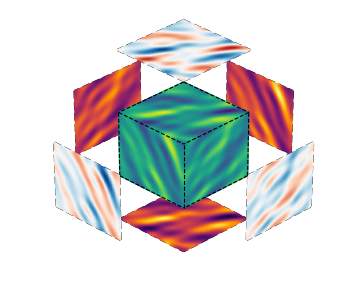
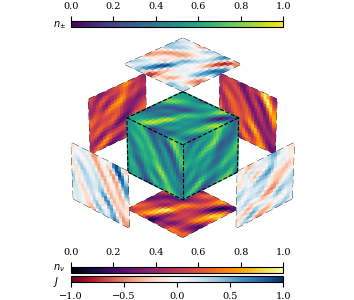
add colorbar sketches

diff --git a/box.py b/box.py
@@ -343,7 +343,7 @@ if __name__ == "__main__":
     axs.append( fig.add_subplot(111, projection='3d') )
     
     #create data
-    Nx = 50
+    Nx = 20
     #x = np.linspace(0.0, 1.0, Nx)
     #y = np.linspace(0.0, 1.0, Nx)
     #z = np.linspace(0.0, 1.0, Nx)
@@ -393,7 +393,7 @@ if __name__ == "__main__":
     box.draw_exploded_right( off=off)
 
     #front exploded panels
-    off = -1.95
+    off = -1.95 #this puts them in front of the box
     cmap = plt.cm.RdBu
     box.draw_exploded_panels_outline("bottom", off=off)
     box.draw_exploded_panels_outline("left",   off=off)
@@ -406,11 +406,36 @@ if __name__ == "__main__":
 
     axs[0].set_axis_off()
     axs[0].view_init(35.0, 45.0)
-    
+
+    #colorbars
+
+    m = plt.cm.ScalarMappable(cmap=plt.cm.viridis)
+    m.set_array([0.0, 1.0])
+    m.set_clim( vmin=0.0, vmax=1.0 )
+    cbaxes = fig.add_axes([0.2, 0.91, 0.6, 0.02]) #[left, bottom, width, height],
+    cb = plt.colorbar(m, cax = cbaxes, orientation="horizontal", ticklocation="top")  
+    fig.text(0.15, 0.91,  r'$n_{\pm}$')
+
+    m = plt.cm.ScalarMappable(cmap=plt.cm.inferno)
+    m.set_array([0.0, 1.0])
+    m.set_clim( vmin=0.0, vmax=1.0 )
+    cbaxes = fig.add_axes([0.2, 0.09, 0.6, 0.02]) #[left, bottom, width, height],
+    cb = plt.colorbar(m, cax = cbaxes, orientation="horizontal", ticklocation="top")  
+    fig.text(0.15, 0.10,  r'$n_{\nu}$')
+
+    m = plt.cm.ScalarMappable(cmap=plt.cm.RdBu)
+    m.set_array([-1.0, 1.0])
+    m.set_clim( vmin=-1.0, vmax=1.0 )
+    cbaxes = fig.add_axes([0.2, 0.06, 0.6, 0.02]) #[left, bottom, width, height],
+    cb = plt.colorbar(m, cax = cbaxes, orientation="horizontal", ticklocation="bottom")  
+    #cb.set_label(r'$J$', rotation=0)
+    fig.text(0.15, 0.05,  r'$J$')
+
+
 
     axisEqual3D(axs[0])
     fname = 'box'
-    plt.subplots_adjust(left=-0.2, bottom=-0.2, right=1.2, top=1.2)
+    plt.subplots_adjust(left=-0.1, bottom=-0.1, right=1.1, top=1.1)
     plt.savefig(fname+'.pdf')
     plt.savefig(fname+'.png')
     
